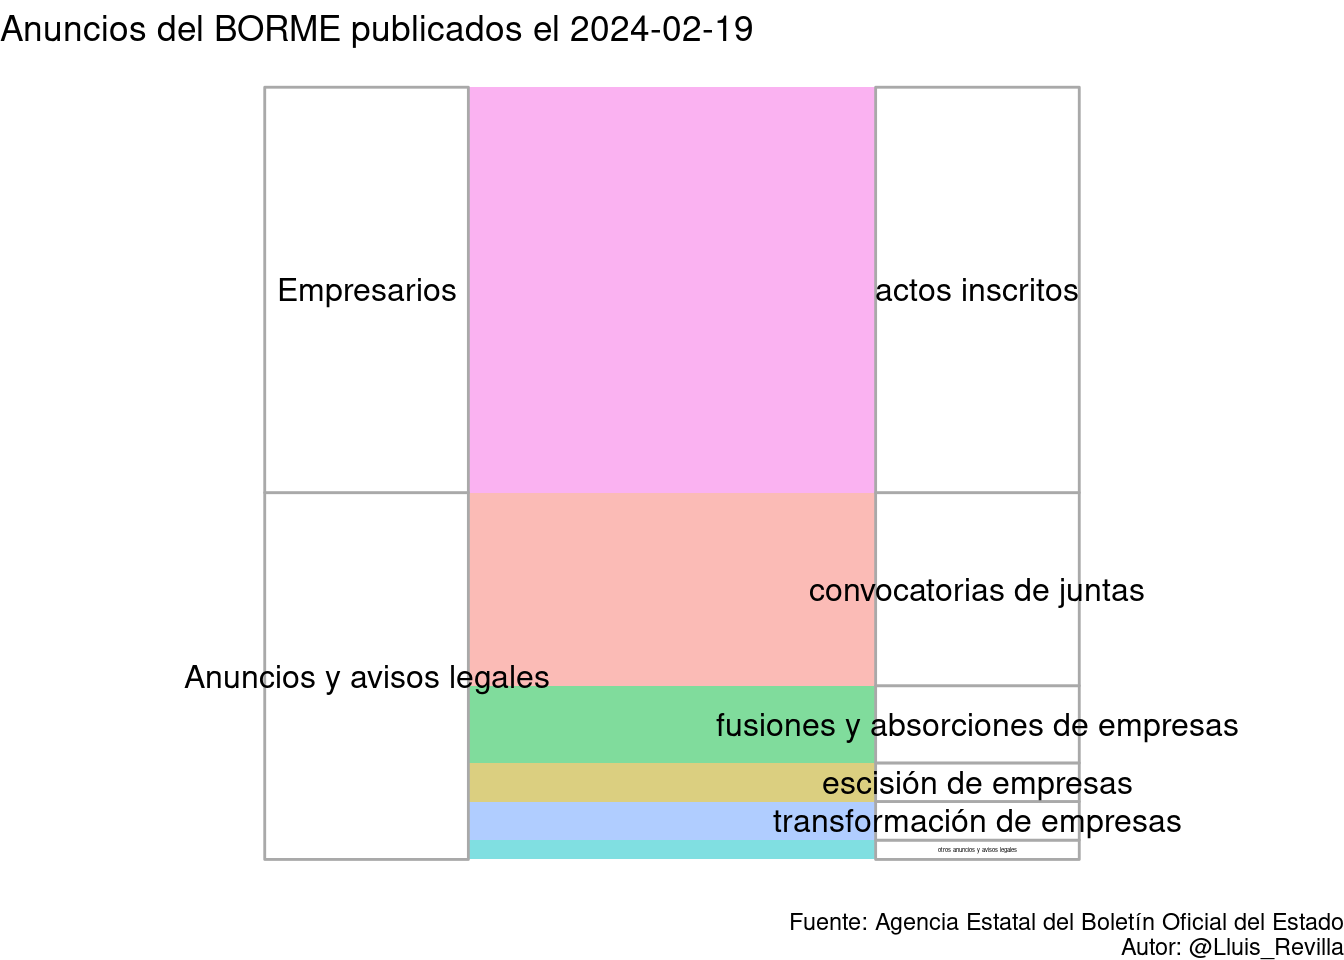
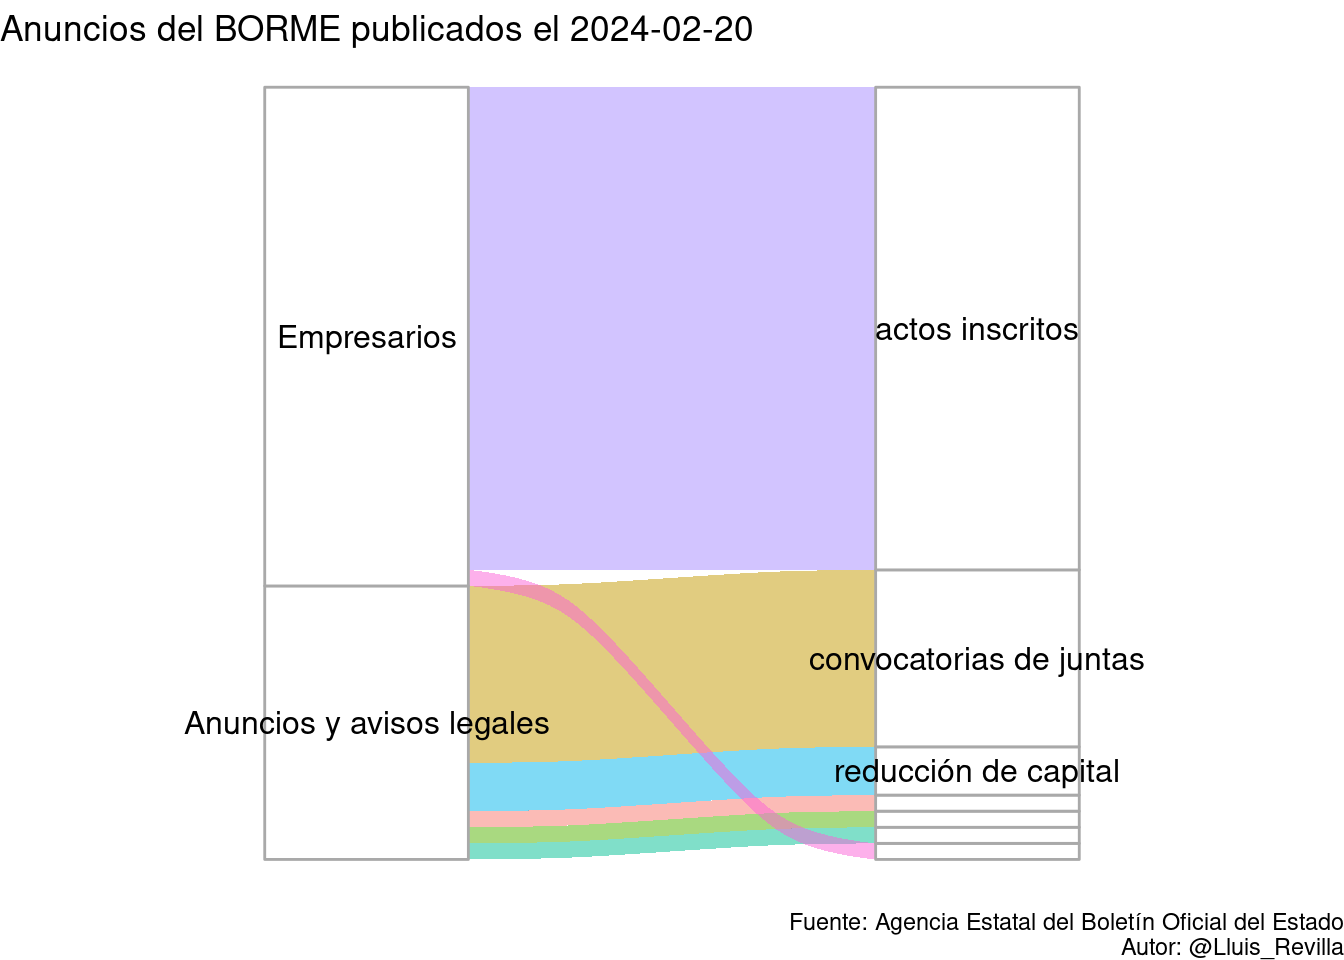
Update BORME

Changed region(s): [[0.125, 0.0938, 0.9375, 0.9062], [0.5312, 0.0, 0.5625, 0.0625]]

diff --git a/docs/last_BORME.html b/docs/last_BORME.html
@@ -379,14 +379,14 @@ $(document).ready(function () {
 
 <div id="resumen-gráfico" class="section level1">
 <h1>Resumen gráfico</h1>
-<p>Esta página web contiene el último sumario del BORME publicado el 2024-02-19 con 40 publicaciones.</p>
+<p>Esta página web contiene el último sumario del BORME publicado el 2024-02-20 con 48 publicaciones.</p>
 <p><img src="last_BORME_files/figure-html/graphics-1.png" width="672" /></p>
 </div>
 <div id="tabla-de-publicaciones" class="section level1">
 <h1>Tabla de publicaciones</h1>
 <p>Aquí está la tabla completa con enlaces a las publicaciones:</p>
-<div class="datatables html-widget html-fill-item-overflow-hidden html-fill-item" id="htmlwidget-73f7fb36c7f1f7d314f2" style="width:100%;height:auto;"></div>
-<script type="application/json" data-for="htmlwidget-73f7fb36c7f1f7d314f2">{"x":{"filter":"top","vertical":false,"filterHTML":"<tr>\n  <td><\/td>\n  <td data-type=\"character\" style=\"vertical-align: top;\">\n    <div class=\"form-group has-feedback\" style=\"margin-bottom: auto;\">\n      <input type=\"search\" placeholder=\"All\" class=\"form-control\" style=\"width: 100%;\"/>\n      <span class=\"glyphicon glyphicon-remove-circle form-control-feedback\"><\/span>\n    <\/div>\n  <\/td>\n  <td data-type=\"character\" style=\"vertical-align: top;\">\n    <div class=\"form-group has-feedback\" style=\"margin-bottom: auto;\">\n      <input type=\"search\" placeholder=\"All\" class=\"form-control\" style=\"width: 100%;\"/>\n      <span class=\"glyphicon glyphicon-remove-circle form-control-feedback\"><\/span>\n    <\/div>\n  <\/td>\n  <td data-type=\"character\" style=\"vertical-align: top;\">\n    <div class=\"form-group has-feedback\" style=\"margin-bottom: auto;\">\n      <input type=\"search\" placeholder=\"All\" class=\"form-control\" style=\"width: 100%;\" disabled=\"\"/>\n      <span class=\"glyphicon glyphicon-remove-circle form-control-feedback\"><\/span>\n    <\/div>\n  <\/td>\n  <td data-type=\"character\" style=\"vertical-align: top;\">\n    <div class=\"form-group has-feedback\" style=\"margin-bottom: auto;\">\n      <input type=\"search\" placeholder=\"All\" class=\"form-control\" style=\"width: 100%;\"/>\n      <span class=\"glyphicon glyphicon-remove-circle form-control-feedback\"><\/span>\n    <\/div>\n  <\/td>\n<\/tr>","data":[["1","2","3","4","5","6","7","8","9","10","11","12","13","14","15","16","17","18","19","20","21","22","23","24","25","26","27","28","29","30","31","32","33","34","35","36","37","38","39","40"],["SECCIÓN PRIMERA. Empresarios","SECCIÓN PRIMERA. Empresarios","SECCIÓN PRIMERA. Empresarios","SECCIÓN PRIMERA. Empresarios","SECCIÓN PRIMERA. Empresarios","SECCIÓN PRIMERA. Empresarios","SECCIÓN PRIMERA. Empresarios","SECCIÓN PRIMERA. Empresarios","SECCIÓN PRIMERA. Empresarios","SECCIÓN PRIMERA. Empresarios","SECCIÓN PRIMERA. Empresarios","SECCIÓN PRIMERA. Empresarios","SECCIÓN PRIMERA. Empresarios","SECCIÓN PRIMERA. Empresarios","SECCIÓN PRIMERA. Empresarios","SECCIÓN PRIMERA. Empresarios","SECCIÓN PRIMERA. Empresarios","SECCIÓN PRIMERA. Empresarios","SECCIÓN PRIMERA. Empresarios","SECCIÓN PRIMERA. Empresarios","SECCIÓN PRIMERA. Empresarios","SECCIÓN SEGUNDA. Anuncios y avisos legales","SECCIÓN SEGUNDA. Anuncios y avisos legales","SECCIÓN SEGUNDA. Anuncios y avisos legales","SECCIÓN SEGUNDA. Anuncios y avisos legales","SECCIÓN SEGUNDA. Anuncios y avisos legales","SECCIÓN SEGUNDA. Anuncios y avisos legales","SECCIÓN SEGUNDA. Anuncios y avisos legales","SECCIÓN SEGUNDA. Anuncios y avisos legales","SECCIÓN SEGUNDA. Anuncios y avisos legales","SECCIÓN SEGUNDA. Anuncios y avisos legales","SECCIÓN SEGUNDA. Anuncios y avisos legales","SECCIÓN SEGUNDA. Anuncios y avisos legales","SECCIÓN SEGUNDA. Anuncios y avisos legales","SECCIÓN SEGUNDA. Anuncios y avisos legales","SECCIÓN SEGUNDA. Anuncios y avisos legales","SECCIÓN SEGUNDA. Anuncios y avisos legales","SECCIÓN SEGUNDA. Anuncios y avisos legales","SECCIÓN SEGUNDA. Anuncios y avisos legales","SECCIÓN SEGUNDA. Anuncios y avisos legales"],["Actos inscritos","Actos inscritos","Actos inscritos","Actos inscritos","Actos inscritos","Actos inscritos","Actos inscritos","Actos inscritos","Actos inscritos","Actos inscritos","Actos inscritos","Actos inscritos","Actos inscritos","Actos inscritos","Actos inscritos","Actos inscritos","Actos inscritos","Actos inscritos","Actos inscritos","Actos inscritos","Actos inscritos","CONVOCATORIAS DE JUNTAS","CONVOCATORIAS DE JUNTAS","CONVOCATORIAS DE JUNTAS","CONVOCATORIAS DE JUNTAS","CONVOCATORIAS DE JUNTAS","CONVOCATORIAS DE JUNTAS","CONVOCATORIAS DE JUNTAS","CONVOCATORIAS DE JUNTAS","CONVOCATORIAS DE JUNTAS","CONVOCATORIAS DE JUNTAS","FUSIONES Y ABSORCIONES DE EMPRESAS","FUSIONES Y ABSORCIONES DE EMPRESAS","FUSIONES Y ABSORCIONES DE EMPRESAS","FUSIONES Y ABSORCIONES DE EMPRESAS","ESCISIÓN DE EMPRESAS","ESCISIÓN DE EMPRESAS","TRANSFORMACIÓN DE EMPRESAS","TRANSFORMACIÓN DE EMPRESAS","OTROS ANUNCIOS Y AVISOS LEGALES"],[null,null,null,null,null,null,null,null,null,null,null,null,null,null,null,null,null,null,null,null,null,null,null,null,null,null,null,null,null,null,null,null,null,null,null,null,null,null,null,null],["BORME-A-2024-35-04","BORME-A-2024-35-06","BORME-A-2024-35-07","BORME-A-2024-35-08","BORME-A-2024-35-15","BORME-A-2024-35-17","BORME-A-2024-35-22","BORME-A-2024-35-23","BORME-A-2024-35-25","BORME-A-2024-35-28","BORME-A-2024-35-29","BORME-A-2024-35-30","BORME-A-2024-35-33","BORME-A-2024-35-36","BORME-A-2024-35-40","BORME-A-2024-35-43","BORME-A-2024-35-45","BORME-A-2024-35-46","BORME-A-2024-35-47","BORME-A-2024-35-50","BORME-A-2024-35-99","BORME-C-2024-528","BORME-C-2024-529","BORME-C-2024-530","BORME-C-2024-531","BORME-C-2024-532","BORME-C-2024-533","BORME-C-2024-534","BORME-C-2024-535","BORME-C-2024-536","BORME-C-2024-537","BORME-C-2024-538","BORME-C-2024-539","BORME-C-2024-540","BORME-C-2024-541","BORME-C-2024-542","BORME-C-2024-543","BORME-C-2024-544","BORME-C-2024-545","BORME-C-2024-546"]],"container":"<table class=\"display\">\n  <thead>\n    <tr>\n      <th> <\/th>\n      <th>Sección<\/th>\n      <th>Emisor<\/th>\n      <th>Texto<\/th>\n      <th>Link<\/th>\n    <\/tr>\n  <\/thead>\n<\/table>","options":{"pageLength":10,"autoWidth":true,"columnDefs":[{"orderable":false,"targets":0},{"name":" ","targets":0},{"name":"Sección","targets":1},{"name":"Emisor","targets":2},{"name":"Texto","targets":3},{"name":"Link","targets":4}],"order":[],"orderClasses":false,"orderCellsTop":true}},"evals":[],"jsHooks":[]}</script>
+<div class="datatables html-widget html-fill-item-overflow-hidden html-fill-item" id="htmlwidget-0ceb67845ad36b78dbb3" style="width:100%;height:auto;"></div>
+<script type="application/json" data-for="htmlwidget-0ceb67845ad36b78dbb3">{"x":{"filter":"top","vertical":false,"filterHTML":"<tr>\n  <td><\/td>\n  <td data-type=\"character\" style=\"vertical-align: top;\">\n    <div class=\"form-group has-feedback\" style=\"margin-bottom: auto;\">\n      <input type=\"search\" placeholder=\"All\" class=\"form-control\" style=\"width: 100%;\"/>\n      <span class=\"glyphicon glyphicon-remove-circle form-control-feedback\"><\/span>\n    <\/div>\n  <\/td>\n  <td data-type=\"character\" style=\"vertical-align: top;\">\n    <div class=\"form-group has-feedback\" style=\"margin-bottom: auto;\">\n      <input type=\"search\" placeholder=\"All\" class=\"form-control\" style=\"width: 100%;\"/>\n      <span class=\"glyphicon glyphicon-remove-circle form-control-feedback\"><\/span>\n    <\/div>\n  <\/td>\n  <td data-type=\"character\" style=\"vertical-align: top;\">\n    <div class=\"form-group has-feedback\" style=\"margin-bottom: auto;\">\n      <input type=\"search\" placeholder=\"All\" class=\"form-control\" style=\"width: 100%;\" disabled=\"\"/>\n      <span class=\"glyphicon glyphicon-remove-circle form-control-feedback\"><\/span>\n    <\/div>\n  <\/td>\n  <td data-type=\"character\" style=\"vertical-align: top;\">\n    <div class=\"form-group has-feedback\" style=\"margin-bottom: auto;\">\n      <input type=\"search\" placeholder=\"All\" class=\"form-control\" style=\"width: 100%;\"/>\n      <span class=\"glyphicon glyphicon-remove-circle form-control-feedback\"><\/span>\n    <\/div>\n  <\/td>\n<\/tr>","data":[["1","2","3","4","5","6","7","8","9","10","11","12","13","14","15","16","17","18","19","20","21","22","23","24","25","26","27","28","29","30","31","32","33","34","35","36","37","38","39","40","41","42","43","44","45","46","47","48"],["SECCIÓN PRIMERA. Empresarios","SECCIÓN PRIMERA. Empresarios","SECCIÓN PRIMERA. Empresarios","SECCIÓN PRIMERA. Empresarios","SECCIÓN PRIMERA. Empresarios","SECCIÓN PRIMERA. Empresarios","SECCIÓN PRIMERA. Empresarios","SECCIÓN PRIMERA. Empresarios","SECCIÓN PRIMERA. Empresarios","SECCIÓN PRIMERA. Empresarios","SECCIÓN PRIMERA. Empresarios","SECCIÓN PRIMERA. Empresarios","SECCIÓN PRIMERA. Empresarios","SECCIÓN PRIMERA. Empresarios","SECCIÓN PRIMERA. Empresarios","SECCIÓN PRIMERA. Empresarios","SECCIÓN PRIMERA. Empresarios","SECCIÓN PRIMERA. Empresarios","SECCIÓN PRIMERA. Empresarios","SECCIÓN PRIMERA. Empresarios","SECCIÓN PRIMERA. Empresarios","SECCIÓN PRIMERA. Empresarios","SECCIÓN PRIMERA. Empresarios","SECCIÓN PRIMERA. Empresarios","SECCIÓN PRIMERA. Empresarios","SECCIÓN PRIMERA. Empresarios","SECCIÓN PRIMERA. Empresarios","SECCIÓN PRIMERA. Empresarios","SECCIÓN PRIMERA. Empresarios","SECCIÓN PRIMERA. Empresarios","SECCIÓN PRIMERA. Empresarios","SECCIÓN SEGUNDA. Anuncios y avisos legales","SECCIÓN SEGUNDA. Anuncios y avisos legales","SECCIÓN SEGUNDA. Anuncios y avisos legales","SECCIÓN SEGUNDA. Anuncios y avisos legales","SECCIÓN SEGUNDA. Anuncios y avisos legales","SECCIÓN SEGUNDA. Anuncios y avisos legales","SECCIÓN SEGUNDA. Anuncios y avisos legales","SECCIÓN SEGUNDA. Anuncios y avisos legales","SECCIÓN SEGUNDA. Anuncios y avisos legales","SECCIÓN SEGUNDA. Anuncios y avisos legales","SECCIÓN SEGUNDA. Anuncios y avisos legales","SECCIÓN SEGUNDA. Anuncios y avisos legales","SECCIÓN SEGUNDA. Anuncios y avisos legales","SECCIÓN SEGUNDA. Anuncios y avisos legales","SECCIÓN SEGUNDA. Anuncios y avisos legales","SECCIÓN SEGUNDA. Anuncios y avisos legales","SECCIÓN SEGUNDA. Anuncios y avisos legales"],["Actos inscritos","Actos inscritos","Actos inscritos","Actos inscritos","Actos inscritos","Actos inscritos","Actos inscritos","Actos inscritos","Actos inscritos","Actos inscritos","Actos inscritos","Actos inscritos","Actos inscritos","Actos inscritos","Actos inscritos","Actos inscritos","Actos inscritos","Actos inscritos","Actos inscritos","Actos inscritos","Actos inscritos","Actos inscritos","Actos inscritos","Actos inscritos","Actos inscritos","Actos inscritos","Actos inscritos","Actos inscritos","Actos inscritos","Actos inscritos","Otros actos publicados en el Registro Mercantil","BALANCES","CONVOCATORIAS DE JUNTAS","CONVOCATORIAS DE JUNTAS","CONVOCATORIAS DE JUNTAS","CONVOCATORIAS DE JUNTAS","CONVOCATORIAS DE JUNTAS","CONVOCATORIAS DE JUNTAS","CONVOCATORIAS DE JUNTAS","CONVOCATORIAS DE JUNTAS","CONVOCATORIAS DE JUNTAS","CONVOCATORIAS DE JUNTAS","CONVOCATORIAS DE JUNTAS","FUSIONES Y ABSORCIONES DE EMPRESAS","ESCISIÓN DE EMPRESAS","REDUCCIÓN DE CAPITAL","REDUCCIÓN DE CAPITAL","REDUCCIÓN DE CAPITAL"],[null,null,null,null,null,null,null,null,null,null,null,null,null,null,null,null,null,null,null,null,null,null,null,null,null,null,null,null,null,null,null,null,null,null,null,null,null,null,null,null,null,null,null,null,null,null,null,null],["BORME-A-2024-36-02","BORME-A-2024-36-03","BORME-A-2024-36-04","BORME-A-2024-36-07","BORME-A-2024-36-08","BORME-A-2024-36-09","BORME-A-2024-36-11","BORME-A-2024-36-12","BORME-A-2024-36-14","BORME-A-2024-36-15","BORME-A-2024-36-17","BORME-A-2024-36-18","BORME-A-2024-36-24","BORME-A-2024-36-25","BORME-A-2024-36-28","BORME-A-2024-36-29","BORME-A-2024-36-30","BORME-A-2024-36-31","BORME-A-2024-36-34","BORME-A-2024-36-35","BORME-A-2024-36-41","BORME-A-2024-36-43","BORME-A-2024-36-44","BORME-A-2024-36-45","BORME-A-2024-36-46","BORME-A-2024-36-47","BORME-A-2024-36-48","BORME-A-2024-36-49","BORME-A-2024-36-50","BORME-A-2024-36-99","BORME-B-2024-36-08","BORME-C-2024-547","BORME-C-2024-548","BORME-C-2024-549","BORME-C-2024-550","BORME-C-2024-551","BORME-C-2024-552","BORME-C-2024-553","BORME-C-2024-554","BORME-C-2024-555","BORME-C-2024-556","BORME-C-2024-557","BORME-C-2024-558","BORME-C-2024-559","BORME-C-2024-560","BORME-C-2024-561","BORME-C-2024-562","BORME-C-2024-563"]],"container":"<table class=\"display\">\n  <thead>\n    <tr>\n      <th> <\/th>\n      <th>Sección<\/th>\n      <th>Emisor<\/th>\n      <th>Texto<\/th>\n      <th>Link<\/th>\n    <\/tr>\n  <\/thead>\n<\/table>","options":{"pageLength":10,"autoWidth":true,"columnDefs":[{"orderable":false,"targets":0},{"name":" ","targets":0},{"name":"Sección","targets":1},{"name":"Emisor","targets":2},{"name":"Texto","targets":3},{"name":"Link","targets":4}],"order":[],"orderClasses":false,"orderCellsTop":true}},"evals":[],"jsHooks":[]}</script>
 </div>
 
 
